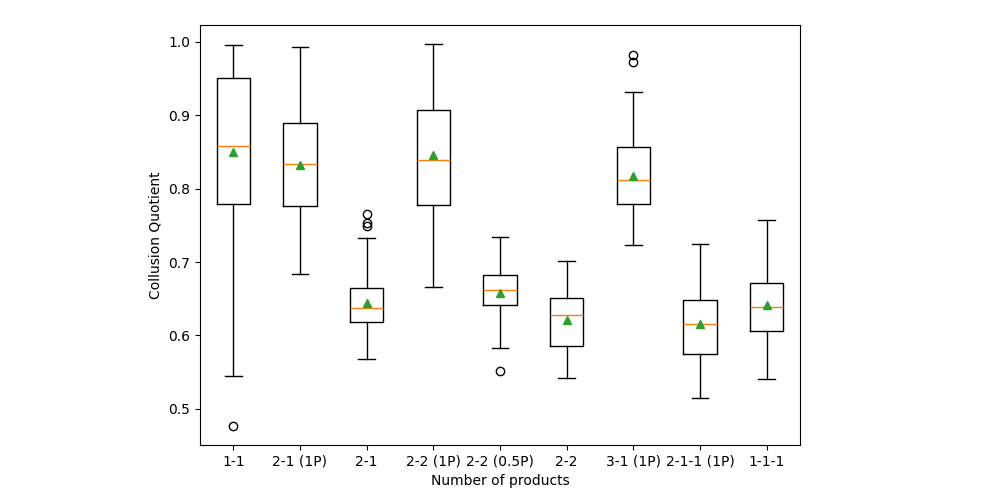
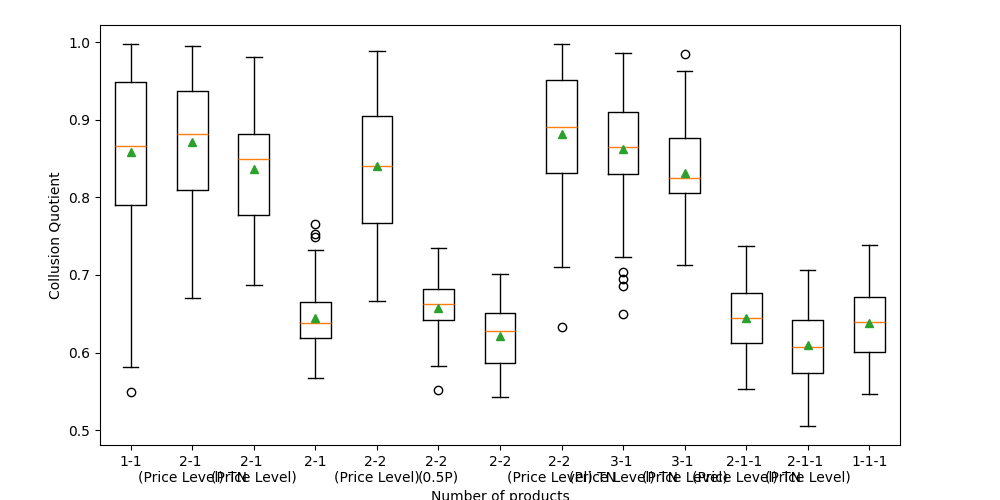
last

diff --git a/graph_firms_2-2_boxplot.py b/graph_firms_2-2_boxplot.py
@@ -23,27 +23,9 @@ def main():
     ticks = []
     file_exists = True
     filenames = [
-        '2_firms',
-        
-        
-        
-        'assymetric2-1_one_price_true_nash',
-        'assymetric2-1_one_price',
-        'assymetric2-1',
-        
-        
-        'assymetric2-2_one_price',
-        'assymetric2-2_half_price',
         'assymetric2-2',
-        
-        
-        'assymetric2-2_one_price_true_nash',
-        'assymetric3-1_one_price_true_nash',
-        'assymetric3-1_one_price',
-        
-        'assymetric2-1-1_one_price_true_nash',
-        'assymetric2-1-1_one_price',
-        '3_firms',
+        'assymetric2-2_half_price',
+        'assymetric2-2_one_price',
     ]
     for name in filenames:
         new_filename = f"graph_default_{name}"
@@ -62,7 +44,7 @@ def main():
 
         collusion_quotients = np.transpose(collusion_quotients)
         lengths = np.transpose(lengths)
-        ticks.append(name.replace('_', ' ').replace('one price', '\n(Price Level)').replace('half price', '\n(0.5P)').replace('assymetric', '').replace('2 firms', '1-1').replace('3 firms', '1-1-1').replace('true nash', 'TN'))
+        ticks.append(name.replace('_', ' ').replace('one price', '\n(Price Level)').replace('half price', '\n(One firm uses Price Level)').replace('assymetric', '').replace('2 firms', '1-1').replace('3 firms', '1-1-1').replace('true nash', 'TN'))
         collusion_quotients_list.append(collusion_quotients)
         lengths_list.append(lengths)
 
@@ -74,7 +56,7 @@ def main():
     plt.boxplot(collusion_quotients_list, showmeans=True)
     plt.xticks(range(1, len(ticks) + 1), ticks)
     plt.ylabel('Collusion Quotient')
-    plt.xlabel('Number of products')
+    plt.xlabel('Product distribution')
     plt.subplots_adjust(left=0.1, right=0.9, top=0.95)
     plt.savefig(os.path.join(save_dir, filename + "_collusion_quotients.png"))
     plt.clf()

diff --git a/graph_firms_figure1_boxplot.py b/graph_firms_figure1_boxplot.py
@@ -24,25 +24,8 @@ def main():
     file_exists = True
     filenames = [
         '2_firms',
-        
-        
-        
-        'assymetric2-1_one_price_true_nash',
         'assymetric2-1_one_price',
         'assymetric2-1',
-        
-        
-        'assymetric2-2_one_price',
-        'assymetric2-2_half_price',
-        'assymetric2-2',
-        
-        
-        'assymetric2-2_one_price_true_nash',
-        'assymetric3-1_one_price_true_nash',
-        'assymetric3-1_one_price',
-        
-        'assymetric2-1-1_one_price_true_nash',
-        'assymetric2-1-1_one_price',
         '3_firms',
     ]
     for name in filenames:
@@ -62,7 +45,7 @@ def main():
 
         collusion_quotients = np.transpose(collusion_quotients)
         lengths = np.transpose(lengths)
-        ticks.append(name.replace('_', ' ').replace('one price', '\n(Price Level)').replace('half price', '\n(0.5P)').replace('assymetric', '').replace('2 firms', '1-1').replace('3 firms', '1-1-1').replace('true nash', 'TN'))
+        ticks.append(name.replace('_', ' ').replace('one price', '\n(Price Level)').replace('assymetric', '').replace('2 firms', '1-1').replace('3 firms', '1-1-1').replace('true nash', 'TN'))
         collusion_quotients_list.append(collusion_quotients)
         lengths_list.append(lengths)
 
@@ -74,7 +57,7 @@ def main():
     plt.boxplot(collusion_quotients_list, showmeans=True)
     plt.xticks(range(1, len(ticks) + 1), ticks)
     plt.ylabel('Collusion Quotient')
-    plt.xlabel('Number of products')
+    plt.xlabel('Product distribution')
     plt.subplots_adjust(left=0.1, right=0.9, top=0.95)
     plt.savefig(os.path.join(save_dir, filename + "_collusion_quotients.png"))
     plt.clf()

diff --git a/graph_deviating_agent.py b/graph_deviating_agent.py
@@ -65,24 +65,24 @@ def main():
     os.makedirs(save_dir, exist_ok=True)
 
     input_combinations = [
-        #('2_firms',None),
-        #('assymetric2-1_one_price',0),
+        ('2_firms',None),
+        ('assymetric2-1_one_price',0),
         ('assymetric2-1_one_price',1),
-        #('assymetric2-2_one_price',None),
+        ('assymetric2-2_one_price',None),
         ('3_firms',None),
 
-        #('assymetric3-1_one_price',0),
-        #('assymetric3-1_one_price',1),
-        #('assymetric2-1-1_one_price',0),
-        #('assymetric2-1-1_one_price',[1,2]),
+        ('assymetric3-1_one_price',0),
+        ('assymetric3-1_one_price',1),
+        ('assymetric2-1-1_one_price',0),
+        ('assymetric2-1-1_one_price',[1,2]),
 
         ('assymetric2-1_one_price_true_nash',0),
         ('assymetric2-1_one_price_true_nash',1),
-        #('assymetric2-2_one_price_true_nash',None),
-        #('assymetric3-1_one_price_true_nash',0),
-        #('assymetric3-1_one_price_true_nash',1),
-        #('assymetric2-1-1_one_price_true_nash',0),
-        #('assymetric2-1-1_one_price_true_nash',[1,2]),
+        ('assymetric2-2_one_price_true_nash',None),
+        ('assymetric3-1_one_price_true_nash',0),
+        ('assymetric3-1_one_price_true_nash',1),
+        ('assymetric2-1-1_one_price_true_nash',0),
+        ('assymetric2-1-1_one_price_true_nash',[1,2]),
 
     ]
     # Make table

diff --git a/graph_nash.py b/graph_nash.py
@@ -97,20 +97,20 @@ def main():
         ('2_firms',None),
         ('assymetric2-1_one_price',0),
         ('assymetric2-1_one_price',1),
-        #('assymetric2-2_one_price',None),
+        ('assymetric2-2_one_price',None),
         ('3_firms',None),
-        #('assymetric3-1_one_price',0),
-        #('assymetric3-1_one_price',1),
-        #('assymetric2-1-1_one_price',0),
-        #('assymetric2-1-1_one_price',[1,2]),
+        ('assymetric3-1_one_price',0),
+        ('assymetric3-1_one_price',1),
+        ('assymetric2-1-1_one_price',0),
+        ('assymetric2-1-1_one_price',[1,2]),
 
         ('assymetric2-1_one_price_true_nash',0),
         ('assymetric2-1_one_price_true_nash',1),
-        #('assymetric2-2_one_price_true_nash',None),
-        #('assymetric3-1_one_price_true_nash',0),
-        #('assymetric3-1_one_price_true_nash',1),
-        #('assymetric2-1-1_one_price_true_nash',0),
-        #('assymetric2-1-1_one_price_true_nash',[1,2]),
+        ('assymetric2-2_one_price_true_nash',None),
+        ('assymetric3-1_one_price_true_nash',0),
+        ('assymetric3-1_one_price_true_nash',1),
+        ('assymetric2-1-1_one_price_true_nash',0),
+        ('assymetric2-1-1_one_price_true_nash',[1,2]),
 
     ]
     # Make table

diff --git a/main.py b/main.py
@@ -27,7 +27,8 @@ def main():
             #'graph_default_2_firms_big_dif_qual.py',
             #'graph_default_assymetric2-1-1_one_price_true_nash.py',
             #'result_table.py',
-            'graph_default_assymetric2-1_one_price_true_nash.py',            
+            #'graph_default_assymetric2-1_one_price_true_nash.py',
+            #'graph_firms_more_boxplot.py',            
             'graph_nash.py',
             'graph_deviating_agent.py',
             #'graph_default_mono.py',
@@ -57,7 +58,7 @@ def main():
             #'graph_discount_factor_together.py',
             #'graph_mu.py',
             #'graph_firms_boxplot.py',
-            #'graph_firms_more_boxplot.py',
+            
             #'graph_heatmap_alpha_beta.py',
     ]
     execute_scripts(scripts)

diff --git a/utils/config.py b/utils/config.py
@@ -18,6 +18,7 @@ class Share():
         return self
 
     def __call__(self, P, A):
+        #print(f"Demand function called with P: {P}, A: {A}, mu: {self.mu}")
         numer = np.exp((A-P)/self.mu)
         denom = 1 + np.sum(numer)
         result = numer/denom
@@ -128,7 +129,8 @@ def list_creator(inputlist, numb):
         return (inputlist,) * numb
 
 def fix_config(config):
-    share = config['demand_function'].set(config['demand_function_params'])
+    config['demand_function'].set(config['demand_function_params'])
+    share = config['demand_function']
     # check demand function is callable
     assert callable(share), 'Demand function must be callable'
     # check numb firms is int

diff --git a/Classes/SIMULATOR.py b/Classes/SIMULATOR.py
@@ -24,7 +24,8 @@ def list_creator(inputlist, numb):
 
 
 def fix_config(config):
-    share = config['demand_function'].set(config['demand_function_params'])
+    config['demand_function'].set(config['demand_function_params'])
+    share = config['demand_function']
     # check demand function is callable
     assert callable(share), 'Demand function must be callable'
     # check numb firms is int

diff --git a/graph_heatmap_alpha_beta.py b/graph_heatmap_alpha_beta.py
@@ -15,6 +15,8 @@ filename = basename(__file__).replace('.py', '')
 def main():
     # Start
     alphas = np.linspace(0.0, 0.25, 10, endpoint=False) #SET Alpha values
+    print(f"Alpha values: {alphas}")
+    input("Press Enter to continue...")  # Wait for user input to proceed
     betas = np.linspace(0.0, 2*10**-5, 10, endpoint=False) #SET Beta values
     sessions = 100
     iterations = 10**7
